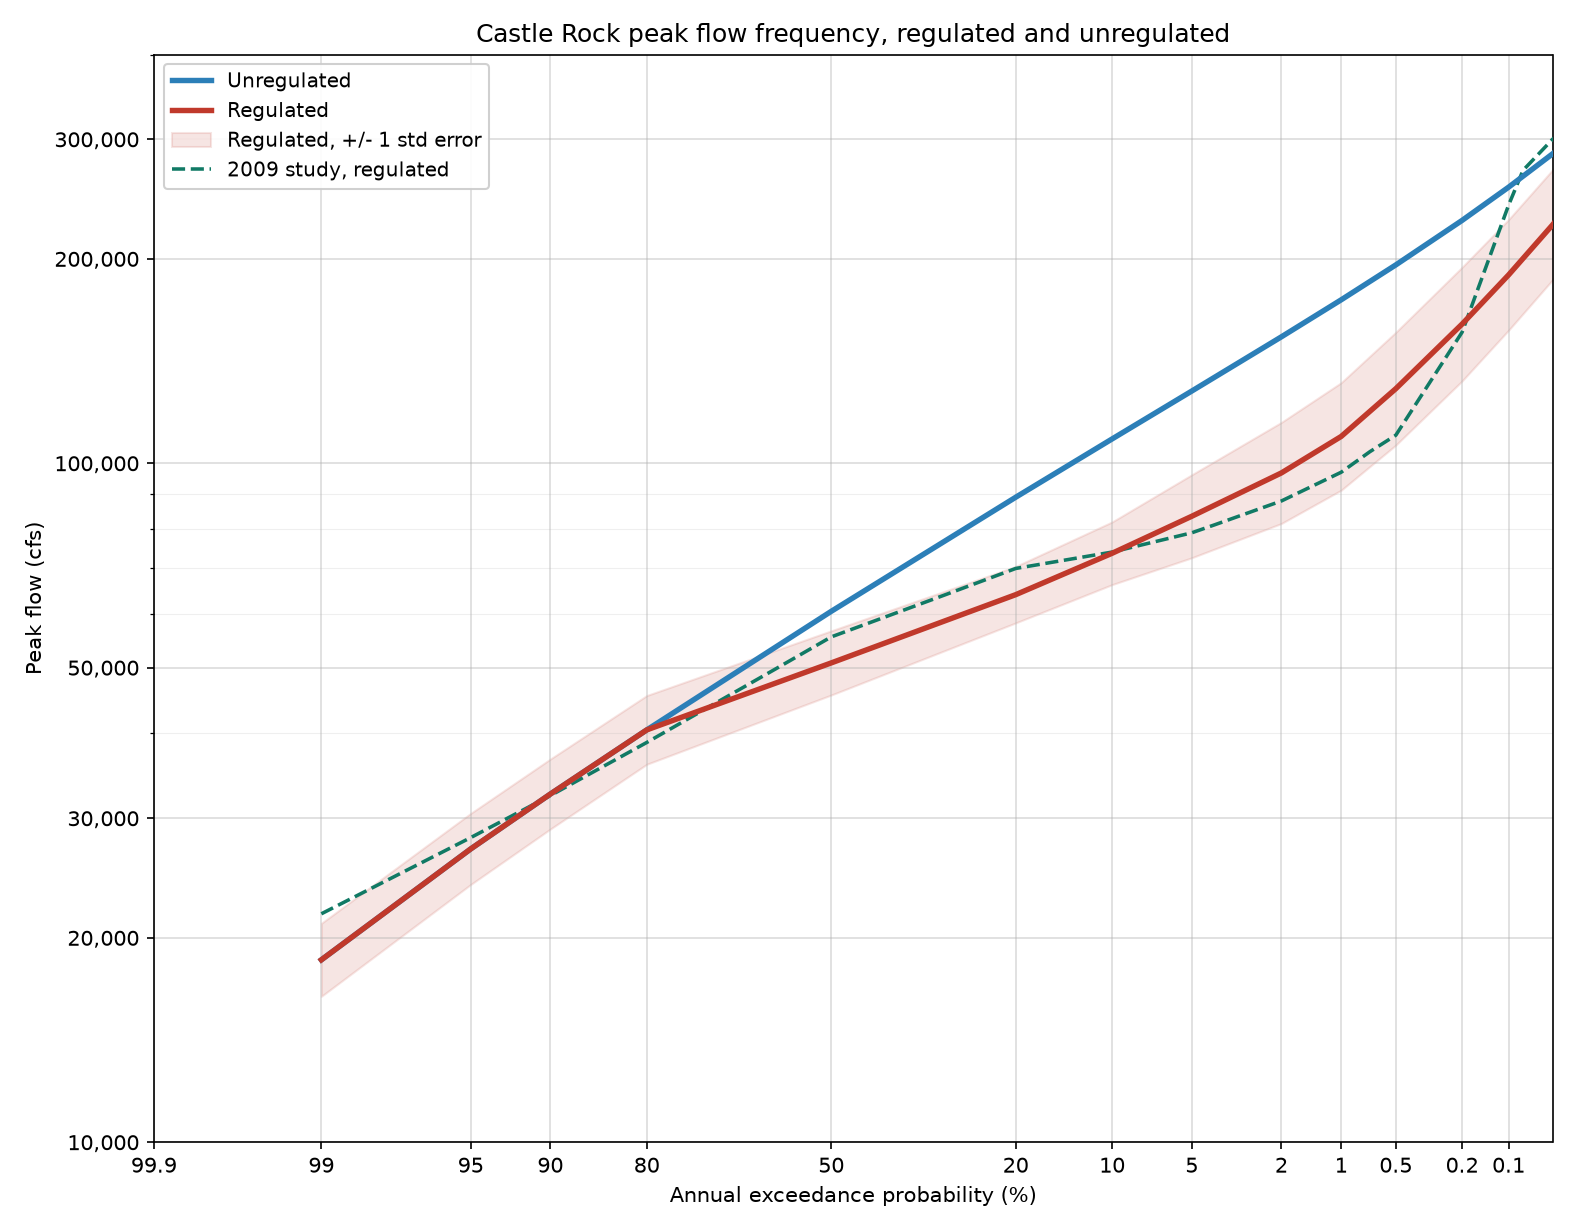
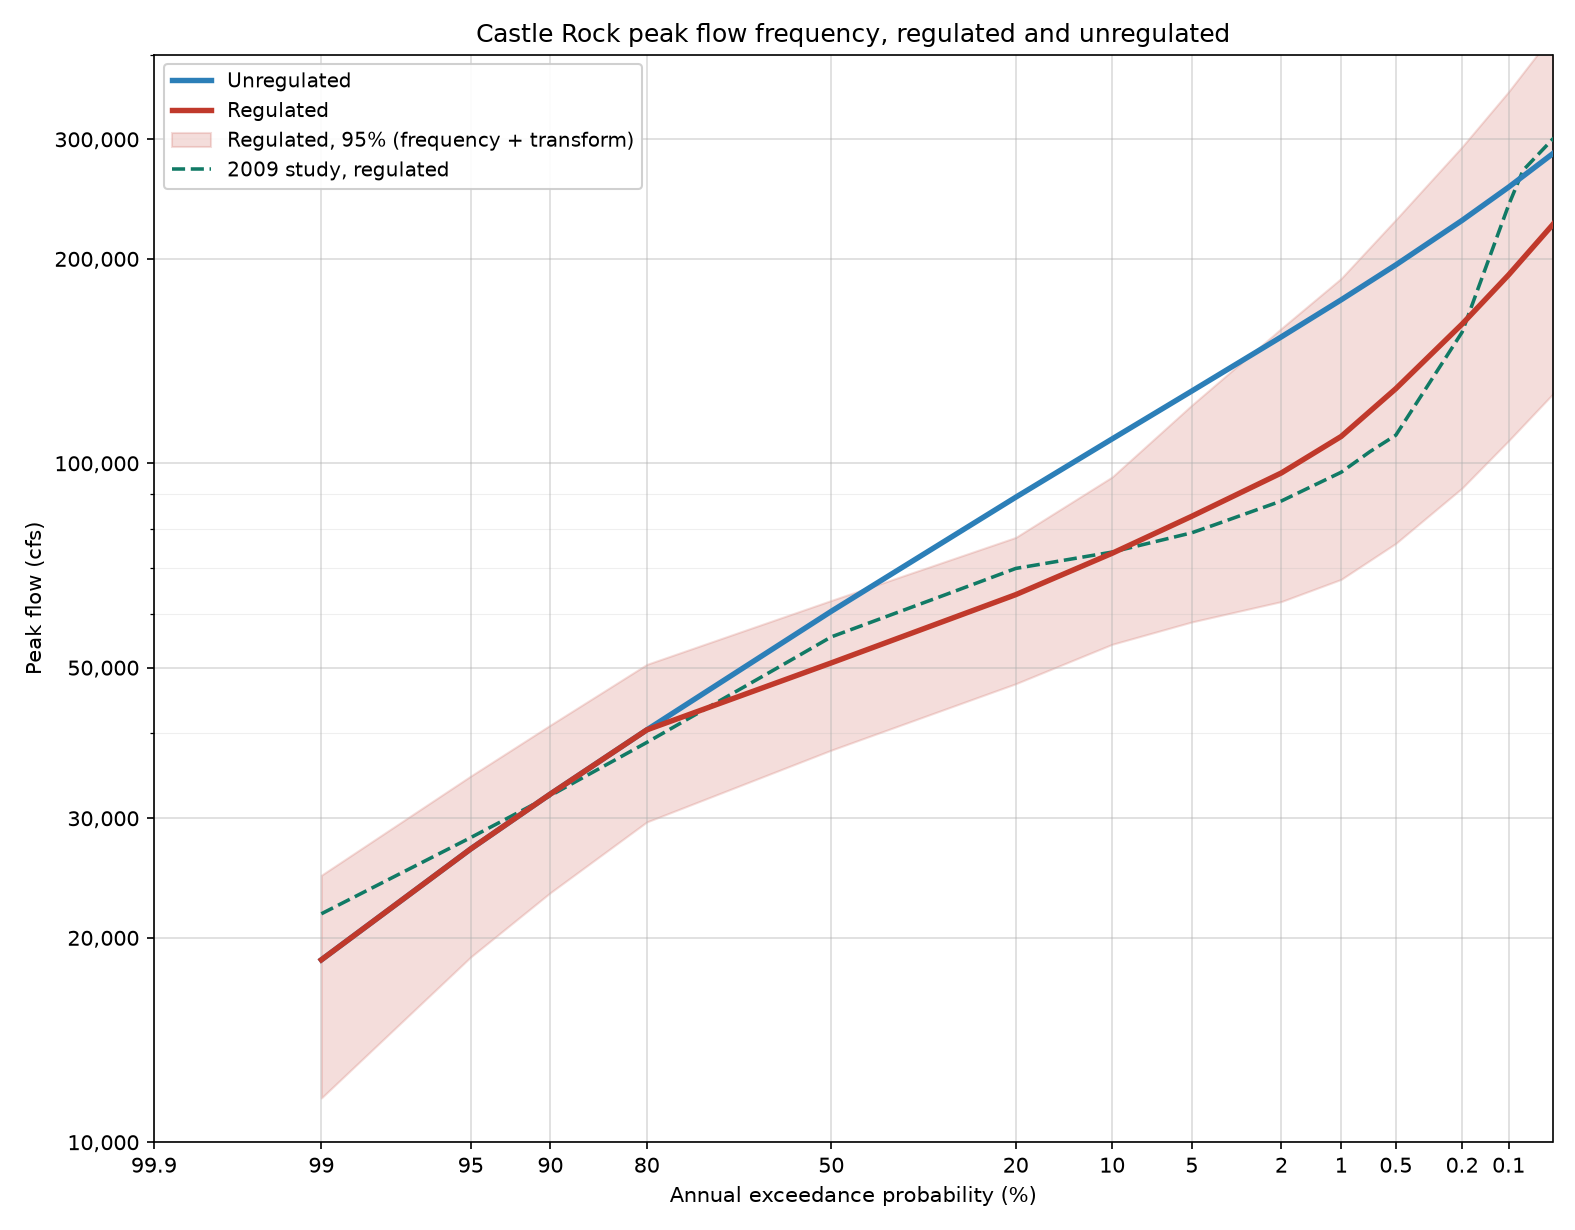
Unreg_Reg_Curve: make the 2009-comparison figure use the adopted band
plot_final_curves() (unreg_reg_final_curves.png -- the figure embedded as
the regulated-vs-2009 comparison) was drawing its own crude +/- 1 log-sigma
ribbon, built from transform scatter alone with no frequency term, no z, no
asymmetry. unreg_reg_final_uncertainty.png draws the actual adopted
combine_uncertainty() band. Two figures in the same memo, both a red band
around the same red curve, at two very different widths, reads as the
regulated curve disagreeing with itself -- which is what got reported after
the combined memo was reviewed. They were never the same quantity, but
nothing distinguished them as different things.

Fix: main() now computes unc (combine_uncertainty) before calling
plot_final_curves instead of after, and passes it in; plot_final_curves
fills unc["reg_lower"]/unc["reg_upper"] -- the same 95% band on
unreg_reg_final_uncertainty.png -- instead of its own ribbon, with a
matching legend label.

Also threaded reg_curve into plot_final_curves instead of recomputing it
locally via a second apply_transform(fit, unreg_curve) call. Numerically
identical to the reg_curve plot_frequency() already returns and main()
threads into plot_final_uncertainty() -- confirmed by re-running before
this fix, the regulated curve line itself had not drifted -- but two
independent call sites computing "the same" curve is the kind of
duplication that goes stale silently the next time only one of them is
edited, so there is no reason to leave it now that one is already sitting
[…]

Changed region(s): [[0.1867, 0.2163, 0.9956, 0.8959], [0.1867, 0.0309, 0.9956, 0.7415], [0.2178, 0.0927, 0.4044, 0.1236]]

diff --git a/CAS_Reg_Unreg/src/#Unreg_Reg_Curve.py b/CAS_Reg_Unreg/src/#Unreg_Reg_Curve.py
@@ -1396,25 +1396,48 @@ def plot_final_uncertainty(freq, fit, unc, reg_curve, table_2009, stem):
     plt.close(fig)
 
 
-def plot_final_curves(freq, fit, table_2009, stem):
-    """The adopted figure: regulated and unregulated lines, nothing else.
+def plot_final_curves(freq, fit, reg_curve, unc, table_2009, stem):
+    """Regulated and unregulated lines against the 2009 study, with the
+    ADOPTED uncertainty band -- the same one on unreg_reg_final_uncertainty.png.
 
     No scatter. Everything that went into placing these two lines is on
     unreg_reg_frequency.png; this is the one that goes in the report, where the
     points are a distraction from the result.
+
+    reg_curve and unc are passed in rather than recomputed here, for two
+    reasons found together when a user reported this figure and
+    unreg_reg_final_uncertainty.png showing what looked like two different
+    regulated curves:
+
+    1. reg_curve used to be recomputed locally as apply_transform(fit,
+       unreg_curve). That happened to be numerically identical to the
+       reg_curve plot_frequency() returns and main() threads into
+       plot_final_uncertainty() -- same fit, same unreg_curve -- but two
+       independent call sites computing "the same" curve is exactly the
+       kind of duplication that goes stale silently the next time only one
+       of them gets edited. It is now threaded through instead.
+    2. The band was the real mismatch. This figure used to draw its own
+       crude +/- 1 log-sigma ribbon (transform scatter only, no frequency
+       term, no z, no asymmetry) while unreg_reg_final_uncertainty.png draws
+       the actual adopted combine_uncertainty() band. Two figures in one
+       memo, both a red band around the same red curve, at two very
+       different widths, reads as the regulated curve disagreeing with
+       itself. They were never meant to be the same number -- but nothing
+       distinguished them as different things, so it read as a bug. This
+       figure now draws the SAME unc["reg_lower"]/unc["reg_upper"] band.
     """
     fig, ax = plt.subplots(figsize=(10.5, 8.2))
     aep_values = freq["AEP"].values
     z = stats.norm.ppf(1.0 - aep_values)
     unreg_curve = freq[FREQ_VALUE_COL].values
-    reg_curve = apply_transform(fit, unreg_curve)
+    pct = int(round(100 * UNCERTAINTY_CONF_LEVEL))
 
     ax.plot(z, unreg_curve, color=C_UNREG, lw=2.6, zorder=4,
             label="Unregulated")
     ax.plot(z, reg_curve, color=C_REG, lw=2.6, zorder=4, label="Regulated")
-    band = 10 ** transform_sigma_dex(fit, unreg_curve)
-    ax.fill_between(z, reg_curve / band, reg_curve * band, color=C_REG,
-                    alpha=0.13, zorder=1, label="Regulated, +/- 1 std error")
+    ax.fill_between(z, unc["reg_lower"], unc["reg_upper"], color=C_REG,
+                    alpha=0.17, zorder=1,
+                    label="Regulated, %d%% (frequency + transform)" % pct)
     if table_2009 is not None and len(table_2009):
         ax.plot(stats.norm.ppf(1.0 - table_2009["AEP"].values),
                 table_2009["cfs"].values, color=C_2009, lw=1.7, ls="--",
@@ -1548,11 +1571,21 @@ def main():
     plot_scatter(data, fit, wcm, synth, PLOT_STEM)
     reg_curve = plot_frequency(freq, data, fit, wcm, synth, table_2009,
                                PLOT_STEM)
-    if MAKE_FINAL_CURVE_PLOT:
-        plot_final_curves(freq, fit, table_2009, PLOT_STEM)
 
+    # unc is computed before plot_final_curves (moved up from after it) so
+    # that figure can draw the SAME adopted band as plot_final_uncertainty,
+    # instead of the crude, unrelated "+/- 1 std error" ribbon it used to
+    # draw locally. Two figures in the same memo both showing a red band
+    # around the regulated curve, at two different widths, read as the
+    # regulated curve itself disagreeing between figures -- which is what
+    # got reported. They were never the same quantity: one was the full
+    # combined uncertainty band, the other a rough single-sigma diagnostic
+    # nobody meant to put next to the adopted band. Now there is one band.
     unc = combine_uncertainty(freq, fit, reg_curve)
     report_uncertainty(freq, unc, fit)
+
+    if MAKE_FINAL_CURVE_PLOT:
+        plot_final_curves(freq, fit, reg_curve, unc, table_2009, PLOT_STEM)
     if MAKE_FINAL_UNCERTAINTY_PLOT:
         plot_final_uncertainty(freq, fit, unc, reg_curve, table_2009, PLOT_STEM)
 
